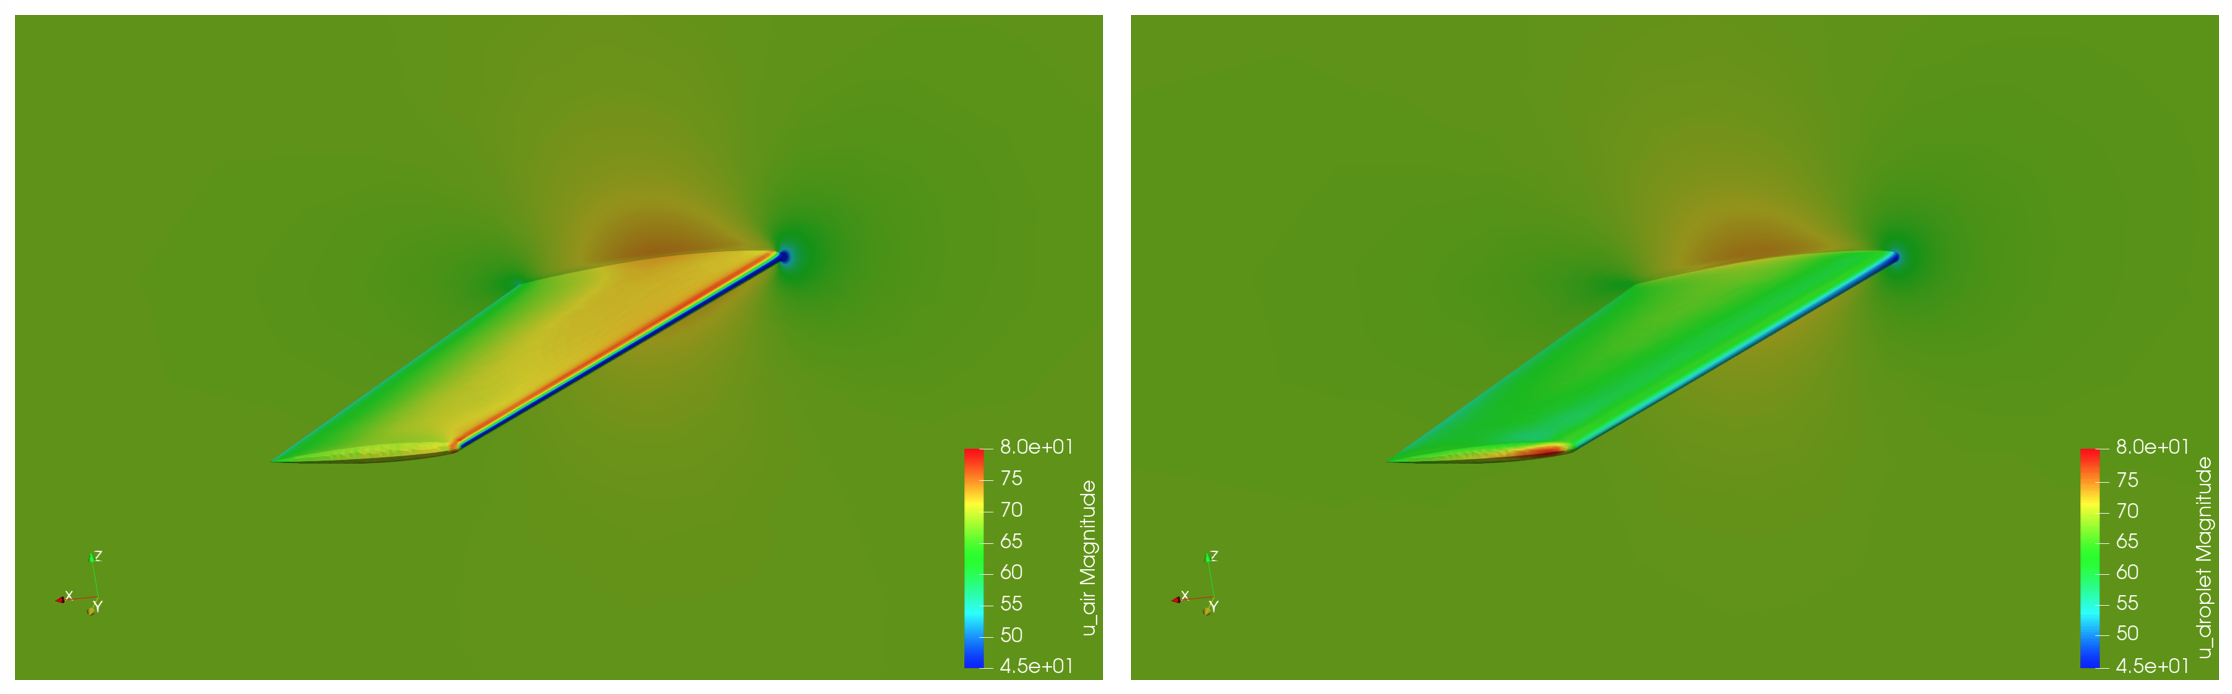
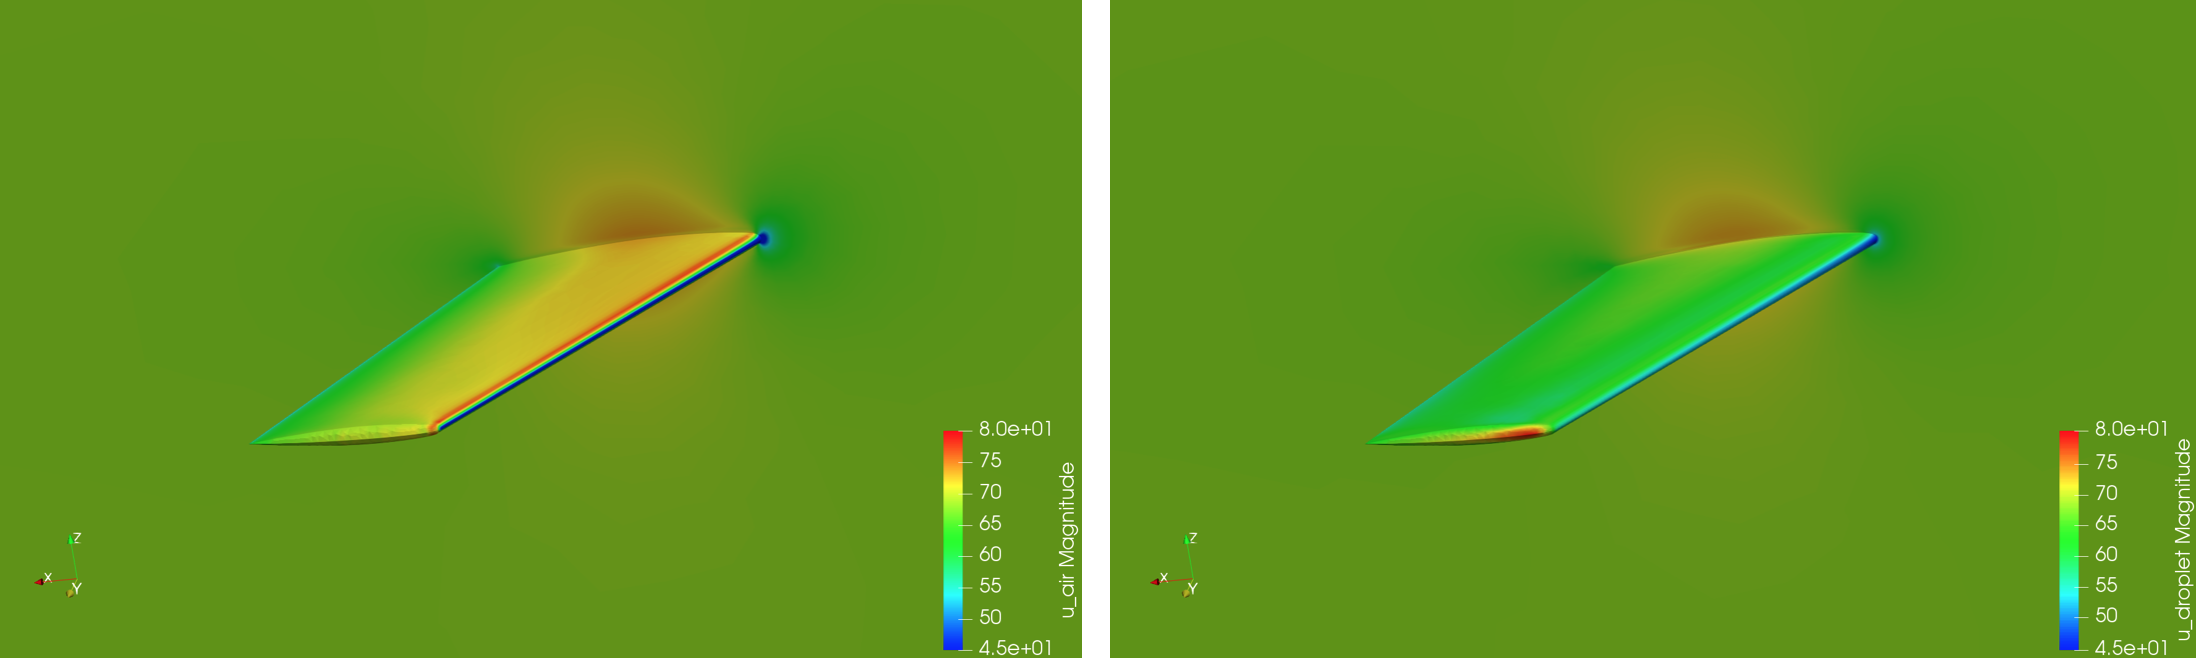
Dernières modifications avant relecture

diff --git a/pages_annexes/results.html b/pages_annexes/results.html
@@ -42,6 +42,13 @@
         As said before, in order to run the impact equations around the geometry, one needs first to obtain the air solution by running the Euler equations with the very same parameters. For the 2D validation of the code, the results were compared with the ones obtained by Kim et al. in their paper « Ice accretion modeling using an eulerian approach for droplet impingement », since they are using an Eulerian approach too. Furthermore, the same variables were chosen by setting Ma=0.31 and MVD=0.2μm.
       </p>
       <p>
+        On the figure below, the results obtained for an angle of attack of 0° are gathered for both the air and the droplet solutions. On these figures, the similarities between the two can be evaluated. The droplet solution is truly close to the air solution and the fact that the droplets are following the path created by the air is even more blatant. Indeed, by observing both velocities, it appears naturally that the droplets are carried by the air alongside the airfoil. The maxima are reached at the same positions and the tendencies are the same for the two quantities at stake (alpha/density, droplet_vel/air_vel). Obviously, the air is faster that the droplets, since the latter is transported by the former.
+      </p>
+      <center>
+        <img src="../Images/density_comp.png" alt="density_comp" title="Left: air density, Right: droplet alpha" width=800px/>
+        <img src="../Images/vel_comp.png" alt="vel_comp" title="Left: air velocity, Right: droplet velocity" width=800px/>
+      </center>
+      <p>
         The easiest way to compare the results is to plot the collection efficiency (β) according to the curvilinear abscissa. The comparisons were performed for two different angles of attack (AoA=0° and AoA=4°), for a constant MVD of 20μm.
       </p>
       <center>
@@ -68,8 +75,35 @@
       </p>
 
       <h2>3D Results - ONERA M6</h2>
+      <p>
+      As the NACA0012 airfoil was a classic benchmark geometry for 2D cases, the ONERA M6 airfoil is largely used to perform 3D simulations. However, contrary to the NACA0012, the 3D geometry at stake does not seem usually considered for icing problems. Hence, only a few articles present the results needed here using the ONERA M6.
+      </p>
+      <p>
+      The 3D view below shows the results obtained with the IMPACT model for Ma=0.2 and MVD=20μm at zero angle of attack.
+      </p>
+      <center>
+        <img src="../Images/Onera_vel.png" alt="Onera_vel" title="Left: air velocity, Right: droplet velocity" width=800px/>
+      </center>
+      <p>
+      Yet quantitatively comprehensive, these results are not enough no validate our method for 3D simulation. Again, a study of the impingement coefficient was necessary.
+      </p>
+      <p>
+      Considering the results obtained by Chang and al. in their paper « Three-Dimensional Modelling and Simulation of the Ice Accretion Process on Aircraft Wings », we managed to obtain consistant results. Besides, roughly the same commentaries made for the previous 2D case apply here. In this case, the simulation used the following parameter : Ma=0.329, LWC=0.68 and MVD=20μm at AoA=4°.
+      </p>
+      <center>
+        <img src="../Images/beta3D.png" alt="beta3D" title="impingement coefficient on ONERA M6" width=800px/>
+      </center>
+      <p>
+      Once more, even if some simulation for a higher refined grid should be considered to observe a better ressemblance with the results obtained in the literature, the newly implemented IMPACT model is satisfactorily working with both 2D and 3D cases.
+      </p>
 
-
+      <h2>3D Results - INDUSTRIAL GEOMETRIES</h2>
+      <p>
+      The last step was to apply the model on real industrial geometries, different from the classic benchmark problems studied so far. Unfortunately, various issues implying the translation of the industrial mesh provided by EPSILON-ALCEN to be SU2 compatible made that impossible at the time of this writing.
+      </p>
+      <p>
+      Nevertheless, considering the fact that 3D simulations are already feasible, we are confident for the future and think that these difficulties will be eventually overcome.
+      </p>
 
     </section>
   </center>
